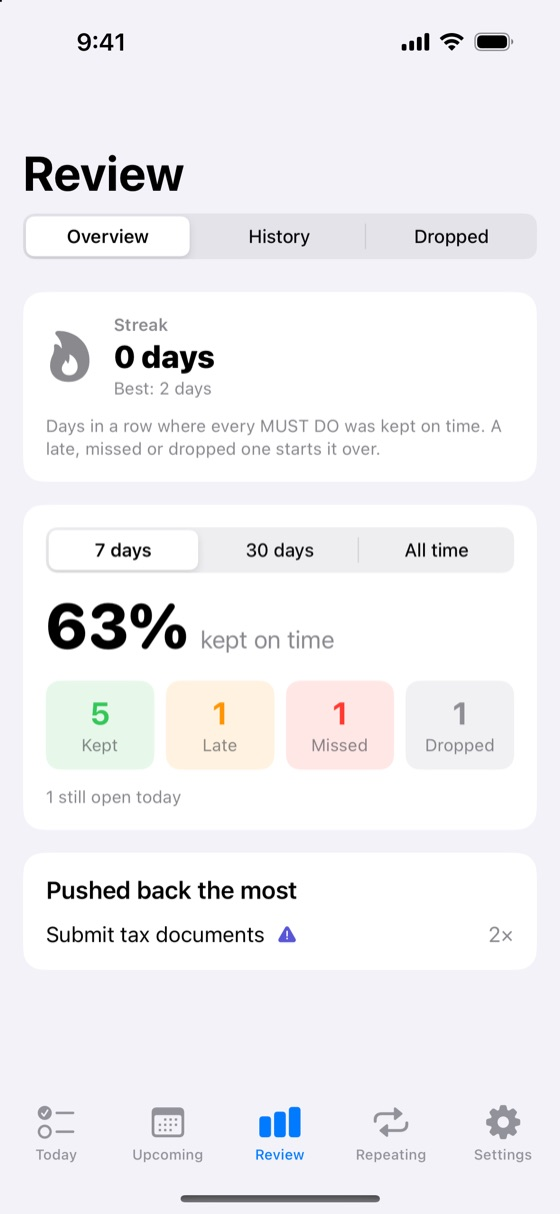
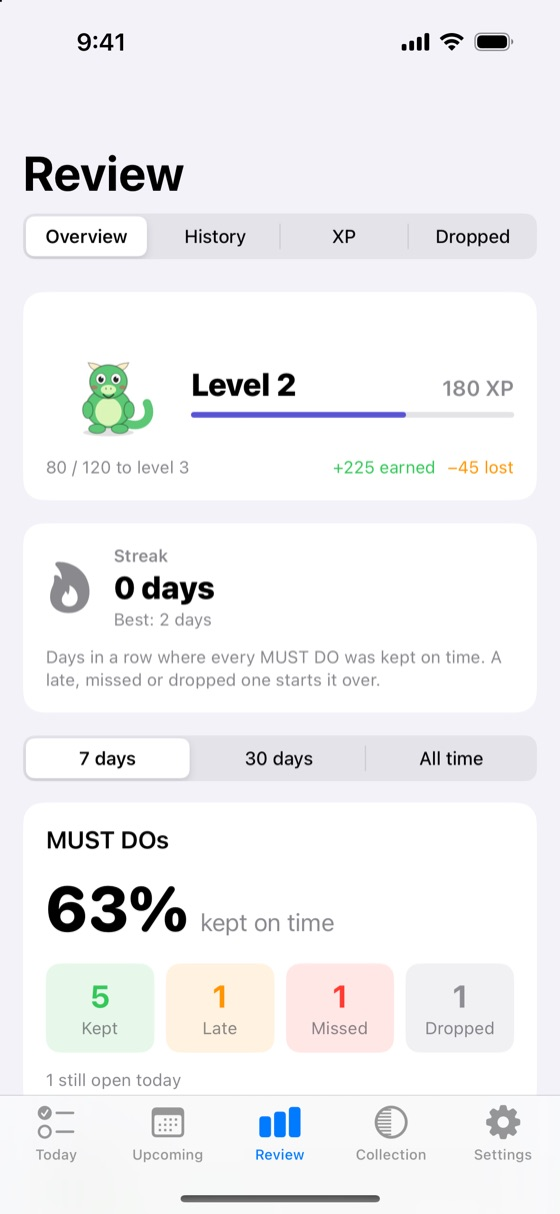
Update the Commit case study for phases 11-18
Commit has grown since the page was written: 27 pull requests and 19 phases
now, about 12,400 lines of Swift, 254 package tests and 58 UI tests.

- Add phases 11-18 (done-earlier, collapsible sections, growth habits, XP and
  levels, Review overhaul, the dragon companion, collectible partners with an
  egg picker, the Collection tab) and an "Afterwards" item for the later fixes
  and the one-command renewal script.
- Four new design decisions (derived XP, strict for promises/gentle for
  habits, a companion drawn from code, only the choice is stored) and an
  updated renewal decision (real expiry from the signing profile).
- New simulator screenshots of the current app, built without the creature art
  so the public page shows only the app's own drawn dragon. The debug button is
  retouched out of Today, and a creature name is retouched out of Review. The
  Repeating tab screenshot is dropped (the tab moved into Settings).
- Card text updated to match.

diff --git a/src/data/caseStudies/commit.js b/src/data/caseStudies/commit.js
@@ -3,21 +3,21 @@ import form from "../../assets/projects/commit/form.jpg";
 import upcoming from "../../assets/projects/commit/upcoming.jpg";
 import calendar from "../../assets/projects/commit/calendar.jpg";
 import review from "../../assets/projects/commit/review.jpg";
-import repeating from "../../assets/projects/commit/repeating.jpg";
 import settings from "../../assets/projects/commit/settings.jpg";
 import widgetsHome from "../../assets/projects/commit/widgets-home.jpg";
 import widgetsLock from "../../assets/projects/commit/widgets-lock.jpg";
+import companion from "../../assets/projects/commit/companion.jpg";
 
 // Everything here comes from the project's own plan, CLAUDE.md and pull request
 // descriptions (the repository is private).
 export const commit = {
   slug: "commit",
   tagline:
-    "An iPhone app for keeping my word: a to-do list where the things I promised can't quietly slide to tomorrow.",
+    "An iPhone app for keeping my word: tasks that can't quietly slide to tomorrow, habits with no penalty, and XP that turns follow-through into a companion that grows.",
 
   facts: [
     { label: "Role", value: "Solo developer" },
-    { label: "Built", value: "October 2026, in 11 phases and 15 pull requests" },
+    { label: "Built", value: "October to November 2026, in 19 phases and 27 pull requests" },
     { label: "Platform", value: "iPhone, iOS 17 and up (widgets target iOS 18)" },
     {
       label: "Stack",
@@ -26,16 +26,17 @@ export const commit = {
     },
     {
       label: "Size",
-      value: "About 8,400 lines of Swift, with 174 package tests and 33 UI tests",
+      value: "About 12,400 lines of Swift, with 254 package tests and 58 UI tests",
     },
     { label: "Source", value: "Private repository" },
   ],
 
   overview: [
     "Commit is a personal accountability app. Instead of letting an overdue task slide quietly to tomorrow, it has a MUST DO category for the things I said I would do. A MUST DO is pinned at the top, and if I miss it, it stays there in red with the number of days overdue until I do it or honestly drop it.",
-    "Everything else is a normal to-do organized by date: a Today screen, an Upcoming screen that works as a list or a calendar showing my phone's events alongside my tasks, repeating tasks, Home Screen and lock screen widgets, daily reminders, and a Review tab that shows how often I actually kept my word.",
+    "Everything else is a normal to-do organized by date: a Today screen with collapsible sections, an Upcoming screen that works as a list or a calendar showing my phone's events alongside my tasks, repeating tasks, Home Screen and lock screen widgets, and daily reminders.",
+    "On top of that sit growth habits (gym, reading) that are tracked with no penalty, and an XP and level system that rewards follow-through. A dragon drawn from SwiftUI shapes evolves as I level up, and a Review tab shows my level, my streak, and how I did on MUST DOs, ordinary tasks and habits, with a ledger giving the reason for every XP gain and loss.",
     "There is no backend and no account. It is SwiftUI and SwiftData on the phone, and the app and its widgets share one database through an App Group.",
-    "I wrote a plan with the locked decisions first, then built it in 11 phases. Each phase was its own branch, pull request and tag, with its tests passing before it merged. I built it with Claude Code, and the notes on this page come from those pull requests.",
+    "I wrote a plan with the locked decisions first, then built it in 19 phases. Each phase was its own branch and pull request, with its tests passing before it merged. I built it with Claude Code, and the notes on this page come from those pull requests.",
   ],
 
   gallery: {
@@ -44,13 +45,13 @@ export const commit = {
       "Real screens from the iOS simulator, in a known sample-data state. Swipe sideways to see them all.",
     variant: "phone",
     items: [
-      { src: today, alt: "The Today screen", caption: "Today: MUST DOs pinned at the top, then Overdue, then Today. Finished tasks stay put, crossed out, labeled early or late." },
+      { src: today, alt: "The Today screen", caption: "Today: my level and XP with the companion, MUST DOs pinned at the top, then Overdue and Today. Sections collapse, and finished tasks stay put, labeled early or late." },
       { src: form, alt: "The new task form", caption: "The task form: optional date, optional time, and the MUST DO toggle." },
       { src: upcoming, alt: "The Upcoming list", caption: "Upcoming as a list: the next seven days always show, so there's somewhere to drop a task." },
       { src: calendar, alt: "The Upcoming calendar", caption: "Upcoming as a calendar: a month grid, with my phone's calendar events and my tasks together." },
-      { src: repeating, alt: "The Repeating tab", caption: "Repeating tasks, with edit, pause and delete." },
+      { src: review, alt: "The Review screen", caption: "Review: my level, my streak, and how many MUST DOs were kept, late, missed or dropped, over 7 days, 30 days or all time." },
+      { src: companion, alt: "Five forms of the dragon companion", caption: "The companion: five forms of a dragon drawn entirely from SwiftUI shapes. It evolves as my level rises." },
       { src: settings, alt: "The Settings screen", caption: "Settings: reminder times, and the countdown for the free-account weekly renewal." },
-      { src: review, alt: "The Review screen", caption: "Review: streaks, and how many MUST DOs were kept, late, missed or dropped." },
       { src: widgetsHome, alt: "Home Screen widgets", caption: "Home Screen widgets: a count that turns red when overdue, and a list you can tap to complete." },
       { src: widgetsLock, alt: "Done states and lock screen widgets", caption: "The all-done states, and the lock screen widgets." },
     ],
@@ -63,11 +64,11 @@ export const commit = {
     items: [
       {
         title: "CommitCore: the rules",
-        body: "A local Swift package shared by the app and the widget. It holds the models (TaskItem, RecurrenceRule), the shared store, and the pure logic: section grouping, day stamps, the recurrence generator, the notification planner, the calendar day layout and backups.",
+        body: "A local Swift package shared by the app and the widget. It holds the models (TaskItem, RecurrenceRule, GrowthTask), the shared store, and the pure logic: section grouping, day stamps, the recurrence generator, the notification planner, the calendar day layout, the XP rules and level maths, and backups.",
       },
       {
         title: "The app: the screens",
-        body: "SwiftUI views for Today, Upcoming (list and calendar), Review, Repeating and Settings, plus a read-only EventKit bridge for calendar events. The views only draw what CommitCore decides.",
+        body: "SwiftUI views for Today, Upcoming (list and calendar), Review, Collection and Settings (where repeating tasks now live), plus a read-only EventKit bridge for calendar events. The views only draw what CommitCore decides.",
       },
       {
         title: "The widget: the glanceable part",
@@ -93,7 +94,7 @@ export const commit = {
     },
     {
       title: "Logic in a package, thin views",
-      body: "All the rules live in CommitCore with no UI, so they run under swift test in seconds with no simulator: 174 tests. The SwiftUI views just draw the results, and the widget reuses the same code.",
+      body: "All the rules live in CommitCore with no UI, so they run under swift test in seconds with no simulator: 254 tests. The SwiftUI views just draw the results, and the widget reuses the same code.",
     },
     {
       title: "Repeating tasks are real rows, generated ahead",
@@ -109,7 +110,7 @@ export const commit = {
     },
     {
       title: "Rebuild every reminder on every change",
-      body: "A notification's text is fixed when it is scheduled, so a pure, tested planner rebuilds all pending reminders after every save, launch and return to the app, staying under iOS's limit of 64. The app-renewal reminder is based on the install date, because the first version reset it on every launch and would never have fired for someone who opens the app daily.",
+      body: "A notification's text is fixed when it is scheduled, so a pure, tested planner rebuilds all pending reminders after every save, launch and return to the app, staying under iOS's limit of 64. The app-renewal reminder started as the install date plus 7 days, which turned out to be wrong, because re-running from Xcode doesn't renew a free-account build while its signing profile is still valid. The app now reads the real expiry from its embedded provisioning profile, and a script renews it in one command.",
     },
     {
       title: "ScrollView, not List",
@@ -122,6 +123,22 @@ export const commit = {
     {
       title: "Every screen can be launched in a known state",
       body: "Debug launch arguments (seed sample data, start on a tab, open the calendar with sample events, preview the widgets, start empty) put the app in any state without tapping. They power the UI tests, and they are how the screenshots on this page were captured.",
+    },
+    {
+      title: "XP is derived, never stored",
+      body: "XP and levels are recalculated from the records every time, so changing the rules re-scores history and nothing can drift out of sync. Dropped and deleted tasks count for nothing, growth never costs XP, and levels never go down.",
+    },
+    {
+      title: "Strict for promises, gentle for habits",
+      body: "A missed MUST DO or an ordinary task that sits overdue can cost XP, but a growth habit never does: no due date, no red, just 5 XP for each day done and a quiet \"4 of 7\". Two kinds of commitment get two kinds of feedback.",
+    },
+    {
+      title: "A companion drawn from code",
+      body: "The first companion is a dragon drawn from SwiftUI shapes, so there are no image files and nothing to license. It grows a little every level, evolves at levels 4, 8, 15 and 25, and looks worried when the day's XP went negative. Optional animated creature art can replace it, but it is fetched by a script and never committed to the repo, with the dragon as the fallback so the app always works.",
+    },
+    {
+      title: "Only the choice is stored",
+      body: "The partner system has an egg picker with three seeded-random offers, and a Collection of finished creatures. The app stores only my pick. Which partner, which form and when the next egg arrives are all derived from my level, so there is nothing to get out of sync.",
     },
   ],
 
@@ -166,7 +183,6 @@ export const commit = {
           "Empty and all-done states (\"You finished everything. Good job.\").",
         ],
         tests: "32 package tests.",
-        shot: { src: today, alt: "The Today screen" },
       },
       {
         id: "p3",
@@ -207,9 +223,9 @@ export const commit = {
           "Editing a rule's schedule rebuilds its upcoming open tasks; editing only the title or notes updates them in place. Finished and past tasks are never touched.",
           "A repeat picker in the form, and a Repeating tab with edit, pause and delete.",
           "Seeded on first launch: a weekly MUST DO to renew the app, since a free Apple ID build expires after 7 days.",
+          "The Repeating tab later moved into Settings (Phase 12).",
         ],
         tests: "67 package tests and 13 UI tests.",
-        shot: { src: repeating, alt: "The Repeating tab" },
       },
       {
         id: "p6",
@@ -250,7 +266,6 @@ export const commit = {
           "A haptic on completing a task, a streak badge, and a new app icon in light, dark and tinted.",
         ],
         tests: "115 package tests and 22 UI tests.",
-        shot: { src: review, alt: "The Review screen" },
       },
       {
         id: "fix",
@@ -304,6 +319,121 @@ export const commit = {
         ],
         tests: "174 package tests and 33 UI tests.",
       },
+      {
+        id: "p11",
+        label: "Phase 11",
+        title: "Mark a task done on an earlier day",
+        summary: "For things I finished but forgot to tick off, so they don't sit overdue.",
+        points: [
+          "Swipe right on a task in Today and \"Done earlier\" opens a day picker, with yesterday preselected and only days from when the task was created or due, up to today. The edit form has the same option.",
+          "The task counts as done on that day: it leaves Overdue and MUST DO, shows as late or on time correctly, and Review sees the right day. The day doesn't move with the time zone.",
+          "The option is hidden when there is no earlier day.",
+        ],
+        tests: "188 package tests and 36 UI tests.",
+      },
+      {
+        id: "p12",
+        label: "Phase 12",
+        title: "Collapsible sections, and Repeating moves into Settings",
+        summary: "A calmer Today, and fewer tabs.",
+        points: [
+          "Overdue, Today and Ahead of schedule collapse, with a header that shows how many are hidden, remembered between launches. MUST DO is always pinned and never collapses, and collapsed sections still accept drops.",
+          "The Repeating tab is gone; repeating tasks are managed under Settings.",
+          "A roadmap document records the next phases and the XP rules I agreed with myself.",
+        ],
+        tests: "188 package tests and 38 UI tests.",
+      },
+      {
+        id: "p13",
+        label: "Phase 13",
+        title: "Growth tasks",
+        summary: "Recurring things I do to grow (gym, reading, meditating, journaling), with no penalty for skipping.",
+        points: [
+          "Two new models, a growth task and a check-in for each task per day, stored as a time-zone-proof day. They are additive, so existing data migrates untouched.",
+          "A collapsible Growth section on Today: today's check circle, the previous six days tappable to mark a forgotten day (up to 30 days back), a gentle \"4 of 7\" count, and no red anywhere.",
+          "\"Stop tracking\" hides a task but keeps its history. Backups include growth, and older backups still load.",
+        ],
+        tests: "201 package tests and 44 UI tests.",
+      },
+      {
+        id: "p14",
+        label: "Phase 14",
+        title: "XP and levels",
+        summary: "An XP engine derived from the records every time, with nothing stored.",
+        points: [
+          "Earning: a task is 10 XP, a MUST DO on its day is 25 (late is 10), a growth day is 5.",
+          "Losing: a MUST DO left open past its day costs 15, then 5 a day for up to 3 more days; an ordinary task costs 5 once after 3 days overdue; growth never costs.",
+          "Dropped and deleted tasks count for nothing, and \"Done earlier\" counts on the day it was really done.",
+          "Level 1 needs 100 XP and each level needs 20 more. Levels never go down: XP can dip, but not below where the level started.",
+          "Today shows my level, a progress bar and the day's net.",
+        ],
+        tests: "218 package tests and 47 UI tests.",
+        shot: { src: today, alt: "The Today screen with the level and XP bar" },
+      },
+      {
+        id: "p15",
+        label: "Phase 15",
+        title: "Review overhaul",
+        summary: "Review now covers everything I do, not just MUST DOs.",
+        points: [
+          "Overview: a level card, the streak, MUST DOs, a new Tasks card (done, early, late, overdue now) and a new Growth card (days done out of days possible, fair to new habits), all driven by one 7 days, 30 days or all time picker.",
+          "History shows finished tasks and growth days together by day, with the XP each earned and the day's net.",
+          "A new XP page: a 14-day chart and a ledger with the reason for every gain and loss, plus the rules in plain words.",
+        ],
+        tests: "229 package tests and 50 UI tests.",
+        shot: { src: review, alt: "The Review screen" },
+      },
+      {
+        id: "p16",
+        label: "Phase 16",
+        title: "A companion that grows with my level",
+        summary: "A creature that visibly keeps up with my progress.",
+        points: [
+          "A dragon drawn from SwiftUI shapes, so there are no image files and nothing to license. It grows a little every level and evolves at levels 1, 4, 8, 15 and 25: Hatchling, Whelp, Drake, Dragon and Elder Dragon, gaining wings, horns, a crest, armour plates, glowing eyes, an aura and finally a crown.",
+          "Its mood follows today's XP: happy when I've gained, worried when I've lost.",
+          "It sits beside the XP bar on Today (tap it to see every form, with locked ones as silhouettes) and on the Review level card.",
+          "Reaching a level shows a celebration once, and evolving gets a bigger one. The evolution levels live in one place, so they are easy to tune.",
+        ],
+        tests: "235 package tests and 53 UI tests.",
+        shot: { src: companion, alt: "Five forms of the dragon companion" },
+      },
+      {
+        id: "p17",
+        label: "Phase 17",
+        title: "Collectible partners and an egg picker",
+        summary: "One partner at a time evolves as I level up, and a new egg arrives after each.",
+        points: [
+          "A partner evolves along its line as I level (three-form lines at partner-levels 1, 3 and 5; two-form lines at 1 and 4). After 8 levels it joins the Collection and a new egg arrives.",
+          "The egg picker offers three eggs with seeded-random offers. I tap each to look inside, then confirm one. \"Later\" puts it off, and a catch-up egg appears first if I skipped earlier ones.",
+          "Only my choice is stored (backups include it; older backups still load). Everything else is derived from my level.",
+          "The creature art is fetched by a script and never committed to the repository. The drawn dragon stays as the fallback, so the app always works.",
+        ],
+        tests: "246 package tests and 55 UI tests. One simulator notification-permission test also fails on main, so it is unrelated.",
+      },
+      {
+        id: "p18",
+        label: "Phase 18",
+        title: "The Collection tab",
+        summary: "An inventory of the creatures I have raised.",
+        points: [
+          "A new tab: the partner I'm raising (or an unchosen egg, which opens the picker) sits top left, highlighted grey, and finished creatures follow, newest first, in their final form.",
+          "Tapping one shows a short overview: its evolution line, the levels raised, the date I chose it, and what I passed over.",
+          "It is an inventory, not a catalogue: nothing I don't own is shown.",
+        ],
+        tests: "251 package tests and 58 UI tests.",
+      },
+      {
+        id: "later",
+        label: "Afterwards",
+        title: "Fixes and tooling",
+        summary: "Small things found by using the app every day.",
+        points: [
+          "The growth rows now name every day and show the date range (\"Last 7 days: Nov 7 – 13\"), because on one day Friday looked missing.",
+          "The app reads its real expiry from the signing profile, so the renewal reminder fires the evening before the real expiry.",
+          "A script renews a free-account build in one command: it finds the phone, clears the cached signing profiles, builds, installs over the existing app (keeping its data), opens it and prints the new expiry.",
+        ],
+        tests: "254 package tests.",
+      },
     ],
   },
 
@@ -312,7 +442,7 @@ export const commit = {
     items: [
       "Writing tasks into the Google or iOS calendar. I deliberately deferred it, so calendar events are read-only for now.",
       "Real-device checks: widgets on an actual Home Screen and live Google Calendar syncing can't be verified by the automated tests, so they have to be checked on a phone.",
-      "Distribution: it is signed with a free Apple ID, so it needs re-running from Xcode weekly, which is why the app reminds me.",
+      "Distribution: it is signed with a free Apple ID, so it needs renewing every week. One script now does it in a single command, and the app reminds me the evening before it expires.",
     ],
   },
 };

diff --git a/src/data/projects.js b/src/data/projects.js
@@ -30,7 +30,7 @@ export const projects = [
     name: "Commit",
     meta: "Native iOS app · Solo developer · 2026",
     image: commitImage,
-    desc: "A native iPhone task app with an interactive home-screen widget, local notifications, and calendar integration, across 8,000+ lines of Swift.",
+    desc: "A native iPhone accountability app: tasks that can't quietly slide, habits, XP and levels with a growing companion, widgets, reminders and calendar integration, across 12,000+ lines of Swift.",
     techStack: ["Swift", "SwiftUI", "SwiftData", "WidgetKit", "EventKit"],
   },
   {
